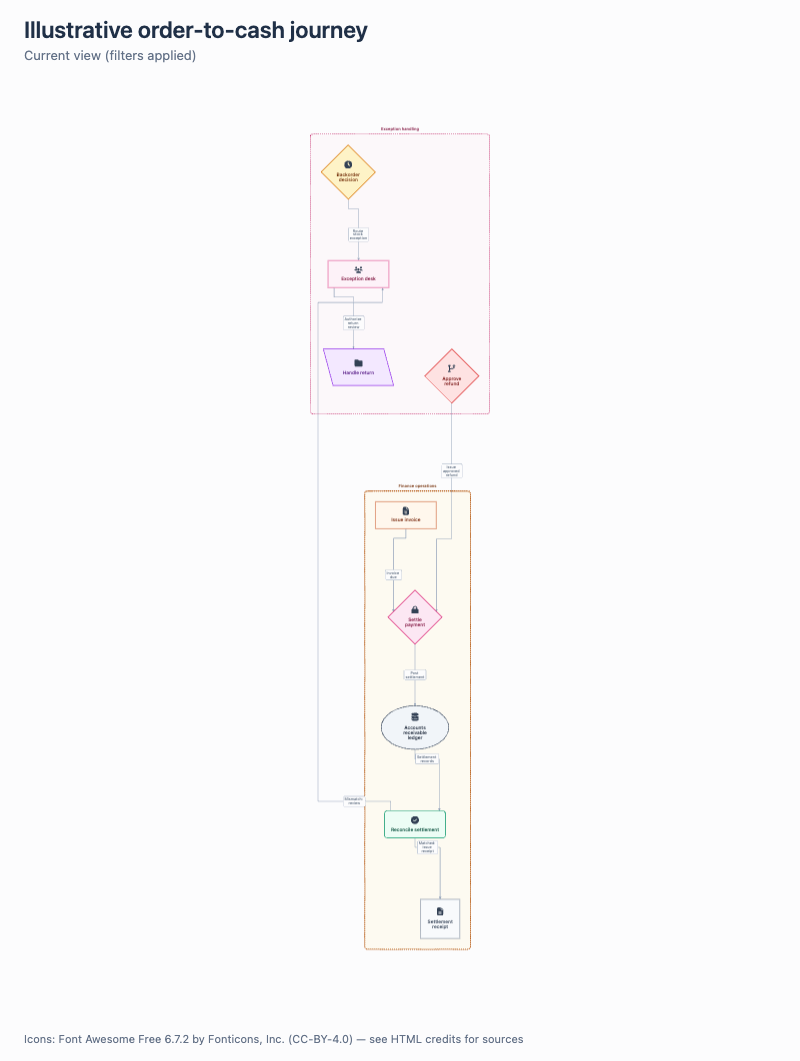
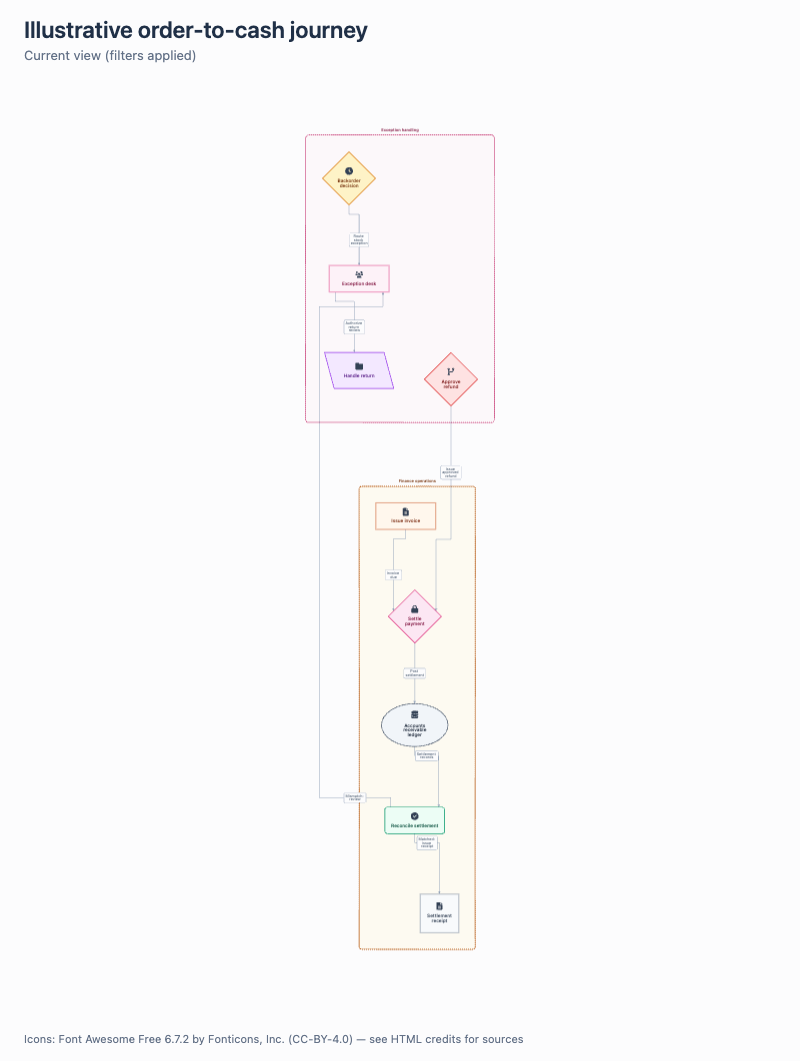
Keep routes within group systems

diff --git a/assets/viewer.js b/assets/viewer.js
@@ -68,7 +68,7 @@ const nodes=model.nodes.map(n=>{
   if(appearance.shape==='parallelogram'){height=Math.max(108,contentHeight+16);width=height*parallelogramRatio;}
   const slant=appearance.shape==='parallelogram'?parallelogramSlant:0;
   const groupLabelWidth=Math.min(300,measure.measureText(n.label).width),iconTop=n.icon?Math.max(10,(height-labelHeight-30)/2):0;
-  return {data:{id:n.id,label:n.label,displayLabel,kind:n.kind||'element',...(n.parent?{parent:n.parent}:{}),width,height,labelWidth,labelHeight,shape,slant,icon:icons[n.icon]||null,iconTop,fill:appearance.fill||'#ffffff',stroke:appearance.stroke||colors.get(n.kind||'element')||'#7c8899',strokeWidth:appearance.strokeWidth||1.7,textColor:appearance.textColor||'#203047',groupLabel:appearance.groupLabel||'top',groupPadding:appearance.groupLabel==='inside'?46:30,groupTextX:appearance.groupLabel==='inside'?(n.icon?42:14)+groupLabelWidth:0}};
+  return {data:{id:n.id,label:n.label,displayLabel,kind:n.kind||'element',...(n.parent?{parent:n.parent}:{}),width,height,labelWidth,labelHeight,shape,slant,icon:icons[n.icon]||null,iconTop,fill:appearance.fill||'#ffffff',stroke:appearance.stroke||colors.get(n.kind||'element')||'#7c8899',strokeWidth:appearance.strokeWidth||1.7,textColor:appearance.textColor||'#203047',groupLabel:appearance.groupLabel||'top',groupPadding:appearance.groupLabel==='inside'?56:48,groupTextX:appearance.groupLabel==='inside'?(n.icon?42:14)+groupLabelWidth:0}};
 });
 const nodeSpacing=Math.max(90,model.layout?.spacing||0),layerSpacing=Math.max(180,model.layout?.layerSpacing||0);
 const edges=model.edges.map(e=>({data:{id:e.id,source:e.source,target:e.target,label:e.label||'',kind:e.kind||'flow',directed:e.directed!==false,curveStyle:'straight',segmentWeights:'0.5',segmentDistances:'0',routeLabelX:0,routeLabelY:0,sourceEndpoint:'outside-to-node',targetEndpoint:'outside-to-node'}}));
@@ -79,7 +79,7 @@ const cy=api.cy=cytoscape({
   style:[
     {selector:'node',style:{'shape':'data(shape)','width':'data(width)','height':'data(height)','background-color':'data(fill)','border-width':'data(strokeWidth)','border-color':'data(stroke)','label':'data(displayLabel)','font-family':'system-ui','font-size':14,'font-weight':600,'color':'data(textColor)','text-valign':'center','text-halign':'center','text-wrap':'wrap','text-max-width':'data(labelWidth)','text-justification':'center','text-margin-y':0,'padding':0,'overlay-opacity':0}},
     {selector:'node[icon]',style:{'background-image':n=>n.data('icon')||'none','background-fit':'none','background-width':24,'background-height':24,'background-position-x':'50%','background-position-y':'data(iconTop)','text-margin-y':15}},
-    {selector:'node:parent',style:{'shape':'round-rectangle','background-color':'data(fill)','background-opacity':0.22,'border-color':'data(stroke)','border-width':'data(strokeWidth)','border-style':'dashed','padding':'data(groupPadding)','label':'data(label)','font-size':12,'font-weight':600,'color':'data(textColor)','text-valign':'top','text-halign':'center','text-margin-x':0,'text-margin-y':-9,'compound-sizing-wrt-labels':'include','background-image':'none','text-wrap':'wrap','text-max-width':300}},
+    {selector:'node:parent',style:{'shape':'round-rectangle','background-color':'data(fill)','background-opacity':0.22,'border-color':'data(stroke)','border-width':'data(strokeWidth)','border-style':'dashed','padding':'data(groupPadding)','label':'data(label)','font-size':12,'font-weight':600,'color':'data(textColor)','text-valign':'top','text-halign':'center','text-margin-x':0,'text-margin-y':-9,'text-background-color':'#fcfcfd','text-background-opacity':1,'text-background-padding':3,'text-background-shape':'roundrectangle','compound-sizing-wrt-labels':'exclude','background-image':'none','text-wrap':'wrap','text-max-width':300}},
     {selector:'node:parent[groupLabel="inside"]',style:{'text-halign':'left','text-valign':'top','text-margin-x':'data(groupTextX)','text-margin-y':15}},
     {selector:'node:parent[groupLabel="inside"][icon]',style:{'background-image':n=>n.data('icon')||'none','background-fit':'none','background-width':20,'background-height':20,'background-position-x':'16px','background-position-y':'14px'}},
     {selector:'edge',style:{'curve-style':'data(curveStyle)','edge-distances':'node-position','segment-weights':'data(segmentWeights)','segment-distances':'data(segmentDistances)','source-endpoint':'data(sourceEndpoint)','target-endpoint':'data(targetEndpoint)','line-color':'#96a5bb','target-arrow-color':'#96a5bb','target-arrow-shape':e=>e.data('directed')?'triangle':'none','width':1.6,'arrow-scale':0.85,'label':'data(label)','font-family':'system-ui','font-size':11,'color':'#526277','text-background-color':'#fcfcfd','text-background-opacity':1,'text-background-padding':4,'text-background-shape':'roundrectangle','text-border-width':1,'text-border-color':'#96a5bb','text-border-opacity':1,'text-wrap':'wrap','text-max-width':56,'text-rotation':'none','text-margin-x':'data(routeLabelX)','text-margin-y':'data(routeLabelY)','overlay-opacity':0}},
@@ -190,14 +190,18 @@ async function route(elements,retryEdge=null){
   const obstacles=elements.nodes(':visible').filter(n=>!n.isParent()).map(n=>{const p=n.position(),pad=12;return{id:n.id(),x1:p.x-n.data('width')/2-pad,y1:p.y-n.data('height')/2-pad,x2:p.x+n.data('width')/2+pad,y2:p.y+n.data('height')/2+pad};}),groupClearance=22,groups=elements.nodes(':visible').filter(n=>n.isParent()).map(n=>{const b=n.boundingBox({includeLabels:false,includeOverlays:false});return{id:n.id(),x1:b.x1,y1:b.y1,x2:b.x2,y2:b.y2};}),xs=[...obstacles.flatMap(o=>[o.x1-18,o.x2+18]),...groups.flatMap(g=>[g.x1-groupClearance,g.x2+groupClearance])],ys=[...obstacles.flatMap(o=>[o.y1-18,o.y2+18]),...groups.flatMap(g=>[g.y1-groupClearance,g.y2+groupClearance])];
   const segments=path=>path.slice(1).map((p,i)=>[path[i],p]),intersects=(a,b,o)=>Math.abs(a.x-b.x)>=Math.abs(a.y-b.y)?a.y>o.y1&&a.y<o.y2&&Math.max(a.x,b.x)>o.x1&&Math.min(a.x,b.x)<o.x2:a.x>o.x1&&a.x<o.x2&&Math.max(a.y,b.y)>o.y1&&Math.min(a.y,b.y)<o.y2;
   const hugsGroup=(a,b,g)=>Math.abs(a.y-b.y)<.5?Math.max(a.x,b.x)>g.x1&&Math.min(a.x,b.x)<g.x2&&Math.min(Math.abs(a.y-g.y1),Math.abs(a.y-g.y2))<groupClearance:Math.max(a.y,b.y)>g.y1&&Math.min(a.y,b.y)<g.y2&&Math.min(Math.abs(a.x-g.x1),Math.abs(a.x-g.x2))<groupClearance;
-  const overlap=(a,b,c,d)=>{const ah=Math.abs(a.y-b.y)<.5,ch=Math.abs(c.y-d.y)<.5;if(ah!==ch)return 0;if(ah&&Math.abs(a.y-c.y)<1)return Math.max(0,Math.min(Math.max(a.x,b.x),Math.max(c.x,d.x))-Math.max(Math.min(a.x,b.x),Math.min(c.x,d.x)));if(!ah&&Math.abs(a.x-c.x)<1)return Math.max(0,Math.min(Math.max(a.y,b.y),Math.max(c.y,d.y))-Math.max(Math.min(a.y,b.y),Math.min(c.y,d.y)));return 0;};
+  const insideGroup=(path,g)=>path.every(p=>p.x>=g.x1+groupClearance&&p.x<=g.x2-groupClearance&&p.y>=g.y1+groupClearance&&p.y<=g.y2-groupClearance);
+  const facingSide=(g,p)=>{const dx=p.x-(g.x1+g.x2)/2,dy=p.y-(g.y1+g.y2)/2;return Math.abs(dx)>=Math.abs(dy)?(dx<0?'WEST':'EAST'):(dy<0?'NORTH':'SOUTH');};
+  const leavesOnce=(path,g,fromSource)=>{const points=fromSource?path:[...path].reverse(),inside=p=>p.x>=g.x1&&p.x<=g.x2&&p.y>=g.y1&&p.y<=g.y2,i=points.findIndex(p=>!inside(p));return i>0&&!points.slice(i).some(inside)&&!segments(points.slice(i)).some(([a,b])=>intersects(a,b,g));};
+  const leavesThrough=(path,g,fromSource,side)=>{const points=fromSource?path:[...path].reverse(),i=points.findIndex(p=>p.x<g.x1||p.x>g.x2||p.y<g.y1||p.y>g.y2);if(!leavesOnce(path,g,fromSource))return false;const a=points[i-1],b=points[i],horizontal=Math.abs(a.y-b.y)<.5;if(side==='WEST')return horizontal&&b.x<g.x1;if(side==='EAST')return horizontal&&b.x>g.x2;if(side==='NORTH')return!horizontal&&b.y<g.y1;return!horizontal&&b.y>g.y2;};
+  const parallelGap=(a,b,c,d)=>{const ah=Math.abs(a.y-b.y)<.5,ch=Math.abs(c.y-d.y)<.5;if(ah!==ch)return Infinity;const shared=ah?Math.min(Math.max(a.x,b.x),Math.max(c.x,d.x))-Math.max(Math.min(a.x,b.x),Math.min(c.x,d.x)):Math.min(Math.max(a.y,b.y),Math.max(c.y,d.y))-Math.max(Math.min(a.y,b.y),Math.min(c.y,d.y));return shared>3?Math.abs(ah?a.y-c.y:a.x-c.x):Infinity;};
   const crossing=(a,b,c,d)=>{const ah=Math.abs(a.y-b.y)<.5,ch=Math.abs(c.y-d.y)<.5;if(ah===ch)return false;const h=ah?[a,b]:[c,d],v=ah?[c,d]:[a,b];return v[0].x>Math.min(h[0].x,h[1].x)&&v[0].x<Math.max(h[0].x,h[1].x)&&h[0].y>Math.min(v[0].y,v[1].y)&&h[0].y<Math.max(v[0].y,v[1].y);};
   const compact=path=>{const out=[];for(const p of path){const n=out.length,vertical=n>1&&Math.abs(out[n-2].x-out[n-1].x)<.01&&Math.abs(out[n-1].x-p.x)<.01&&(out[n-1].y-out[n-2].y)*(p.y-out[n-1].y)>=0,horizontal=n>1&&Math.abs(out[n-2].y-out[n-1].y)<.01&&Math.abs(out[n-1].y-p.y)<.01&&(out[n-1].x-out[n-2].x)*(p.x-out[n-1].x)>=0;if(vertical||horizontal)out[n-1]=p;else if(!n||Math.abs(p.x-out[n-1].x)>.01||Math.abs(p.y-out[n-1].y)>.01)out.push(p);}return out;};
   const area=(a,b)=>Math.max(0,Math.min(a.x2,b.x2)-Math.max(a.x1,b.x1))*Math.max(0,Math.min(a.y2,b.y2)-Math.max(a.y1,b.y1)),labelBodies=elements.nodes(':visible').filter(n=>!n.isParent()).map(n=>n.boundingBox({includeLabels:false,includeOverlays:false}));
   const labelPositions=(path,z)=>{const out=[];for(const [a,b] of segments(path)){const horizontal=Math.abs(a.y-b.y)<.5,length=Math.abs(horizontal?a.x-b.x:a.y-b.y),extent=(horizontal?z.labelWidth:z.labelHeight)/2+4,fractions=new Set([.5,.35,.65,.2,.8]);for(let offset=extent;offset<=length-extent;offset+=12){fractions.add(offset/length);fractions.add(1-offset/length);}for(const t of fractions){if(length*Math.min(t,1-t)<extent)continue;const x=a.x+(b.x-a.x)*t,y=a.y+(b.y-a.y)*t;out.push({x,y,horizontal,length,t,box:{x1:x-z.labelWidth/2-4,y1:y-z.labelHeight/2-4,x2:x+z.labelWidth/2+4,y2:y+z.labelHeight/2+4}});}}return out;};
   for(const [lane,r] of records.sort((a,b)=>(a.edge.id()===retryEdge?-1:b.edge.id()===retryEdge?1:0)||(Math.abs(a.target.x-a.source.x)+Math.abs(a.target.y-a.source.y))-(Math.abs(b.target.x-b.source.x)+Math.abs(b.target.y-b.source.y))||a.edge.id().localeCompare(b.edge.id())).entries()){
-    const sourcePoint=portPoint(r.edge.source(),r.sourceSide,r.sourcePort),targetPoint=portPoint(r.edge.target(),r.targetSide,r.targetPort),start={x:r.source.x+sourcePoint.x-r.edge.source().data('width')/2,y:r.source.y+sourcePoint.y-r.edge.source().data('height')/2},end={x:r.target.x+targetPoint.x-r.edge.target().data('width')/2,y:r.target.y+targetPoint.y-r.edge.target().data('height')/2},sv=vector[r.sourceSide],tv=vector[r.targetSide],sourceStub=stubLength(r.edge.source(),r.sourceSide,sourcePoint,r.sourceStub),targetStub=stubLength(r.edge.target(),r.targetSide,targetPoint,r.targetStub),stub={x:start.x+sv[0]*sourceStub,y:start.y+sv[1]*sourceStub},finish={x:end.x+tv[0]*targetStub,y:end.y+tv[1]*targetStub},routeClearance=48,usedX=occupied.filter(([a,b])=>Math.abs(a.x-b.x)<.5).flatMap(([a])=>[a.x-routeClearance,a.x+routeClearance]),usedY=occupied.filter(([a,b])=>Math.abs(a.y-b.y)<.5).flatMap(([a])=>[a.y-routeClearance,a.y+routeClearance]),channelsX=[(stub.x+finish.x)/2,...xs,...usedX,Math.min(...xs)-24-lane*8,Math.max(...xs)+24+lane*8],channelsY=[(stub.y+finish.y)/2,...ys,...usedY,Math.min(...ys)-24-lane*8,Math.max(...ys)+24+lane*8],candidates=[[start,stub,{x:finish.x,y:stub.y},finish,end],[start,stub,{x:stub.x,y:finish.y},finish,end],...channelsX.map(x=>[start,stub,{x,y:stub.y},{x,y:finish.y},finish,end]),...channelsY.map(y=>[start,stub,{x:stub.x,y},{x:finish.x,y},finish,end])].map(compact),skip=new Set([r.edge.source().id(),r.edge.target().id()]);
-    const select=paths=>paths.map(path=>{const parts=segments(path);let score=parts.reduce((sum,[a,b])=>sum+Math.abs(a.x-b.x)+Math.abs(a.y-b.y),0)+(path.length-2)*28,blocked=Boolean(r.edge.data('label'))&&!labelPositions(path,r.edge._private.rstyle).some(p=>!labelBodies.some(b=>area(p.box,b)));for(const [a,b] of parts){blocked ||= obstacles.some(o=>skip.has(o.id)?crossesNode(a,b,cy.getElementById(o.id)):intersects(a,b,o))||groups.some(g=>hugsGroup(a,b,g));for(const [c,d] of occupied){blocked ||= overlap(a,b,c,d)>3;score+=crossing(a,b,c,d)?180:0;}}return{path,score,blocked};}).filter(choice=>!choice.blocked).sort((a,b)=>a.score-b.score||JSON.stringify(a.path).localeCompare(JSON.stringify(b.path)))[0];
+    const sourcePoint=portPoint(r.edge.source(),r.sourceSide,r.sourcePort),targetPoint=portPoint(r.edge.target(),r.targetSide,r.targetPort),start={x:r.source.x+sourcePoint.x-r.edge.source().data('width')/2,y:r.source.y+sourcePoint.y-r.edge.source().data('height')/2},end={x:r.target.x+targetPoint.x-r.edge.target().data('width')/2,y:r.target.y+targetPoint.y-r.edge.target().data('height')/2},sv=vector[r.sourceSide],tv=vector[r.targetSide],sourceStub=stubLength(r.edge.source(),r.sourceSide,sourcePoint,r.sourceStub),targetStub=stubLength(r.edge.target(),r.targetSide,targetPoint,r.targetStub),stub={x:start.x+sv[0]*sourceStub,y:start.y+sv[1]*sourceStub},finish={x:end.x+tv[0]*targetStub,y:end.y+tv[1]*targetStub},routeClearance=48,usedX=occupied.filter(([a,b])=>Math.abs(a.x-b.x)<.5).flatMap(([a])=>[a.x-routeClearance,a.x+routeClearance]),usedY=occupied.filter(([a,b])=>Math.abs(a.y-b.y)<.5).flatMap(([a])=>[a.y-routeClearance,a.y+routeClearance]),channelsX=[(stub.x+finish.x)/2,...xs,...usedX,Math.min(...xs)-24-lane*8,Math.max(...xs)+24+lane*8],channelsY=[(stub.y+finish.y)/2,...ys,...usedY,Math.min(...ys)-24-lane*8,Math.max(...ys)+24+lane*8],candidates=[[start,stub,{x:finish.x,y:stub.y},finish,end],[start,stub,{x:stub.x,y:finish.y},finish,end],...channelsX.map(x=>[start,stub,{x,y:stub.y},{x,y:finish.y},finish,end]),...channelsY.map(y=>[start,stub,{x:stub.x,y},{x:finish.x,y},finish,end])].map(compact),skip=new Set([r.edge.source().id(),r.edge.target().id()]),sourceGroups=new Set(r.edge.source().ancestors().map(n=>n.id())),targetGroups=new Set(r.edge.target().ancestors().map(n=>n.id()));
+    const select=paths=>paths.map(path=>{const parts=segments(path);let score=parts.reduce((sum,[a,b])=>sum+Math.abs(a.x-b.x)+Math.abs(a.y-b.y),0)+(path.length-2)*28,blocked=Boolean(r.edge.data('label'))&&!labelPositions(path,r.edge._private.rstyle).some(p=>!labelBodies.some(b=>area(p.box,b)));for(const g of groups){const sourceInside=sourceGroups.has(g.id),targetInside=targetGroups.has(g.id);if(sourceInside&&targetInside)blocked ||= !insideGroup(path,g);else if(sourceInside||targetInside){blocked ||= !leavesOnce(path,g,sourceInside)||parts.some(([a,b])=>hugsGroup(a,b,g));score+=leavesThrough(path,g,sourceInside,facingSide(g,sourceInside?r.target:r.source))?0:100000;}else blocked ||= parts.some(([a,b])=>intersects(a,b,g)||hugsGroup(a,b,g));}for(const [a,b] of parts){blocked ||= obstacles.some(o=>skip.has(o.id)?crossesNode(a,b,cy.getElementById(o.id)):intersects(a,b,o));for(const [c,d] of occupied){blocked ||= parallelGap(a,b,c,d)<14;score+=crossing(a,b,c,d)?180:0;}}return{path,score,blocked};}).filter(choice=>!choice.blocked).sort((a,b)=>a.score-b.score||JSON.stringify(a.path).localeCompare(JSON.stringify(b.path)))[0];
     let scored=select(candidates);
     if(!scored){const detours=[];for(const x of [...new Set(channelsX)])for(const y of [...new Set(channelsY)])detours.push(compact([start,stub,{x,y:stub.y},{x,y},{x:finish.x,y},finish,end]),compact([start,stub,{x:stub.x,y},{x,y},{x,y:finish.y},finish,end]));scored=select(detours);}
     if(!scored){if(!retryEdge)return route(elements,r.edge.id());throw new Error(`No collision-free orthogonal route for ${r.edge.id()}.`);}const path=scored.path,bends=path.slice(1,-1),values=segmentValues(bends,r.source,r.target);occupied.push(...segments(path));r.edge.scratch('routePath',path);r.edge.data({curveStyle:bends.length?'segments':'straight',segmentWeights:values.weights,segmentDistances:values.distances,sourceEndpoint:`${start.x-r.source.x}px ${start.y-r.source.y}px`,targetEndpoint:`${end.x-r.target.x}px ${end.y-r.target.y}px`,routeLabelX:0,routeLabelY:0});

diff --git a/scripts/browser_check.py b/scripts/browser_check.py
@@ -77,10 +77,12 @@ AUDIT = r'''() => {
  const rhomboidProbe={position:()=>({x:0,y:0}),width:()=>220,height:()=>140,data:key=>key==='shape'?'rhomboid':key==='slant'?2*140*Math.tan(Math.PI/12)/220:undefined};
  if(!crossesNode({x:100,y:0},{x:100,y:63},rhomboidProbe))errors.push('Rhomboid segment collision regression.');
  for(const route of routes)if(route.source!==route.target)for(const [a,b] of route.path.slice(1).map((p,i)=>[route.path[i],p]))for(const n of cy.nodes(':visible').filter(n=>!n.isParent()))if(crossesNode(a,b,n))errors.push('Routed edge crosses node interior: '+route.id+' / '+n.id());
- const routeSegments=r=>r.path.slice(1).map((p,i)=>[r.path[i],p]),collinearOverlap=(a,b,c,d)=>{const ah=Math.abs(a.y-b.y)<1,ch=Math.abs(c.y-d.y)<1;if(ah!==ch)return 0;if(ah&&Math.abs(a.y-c.y)<1)return Math.max(0,Math.min(Math.max(a.x,b.x),Math.max(c.x,d.x))-Math.max(Math.min(a.x,b.x),Math.min(c.x,d.x)));if(!ah&&Math.abs(a.x-c.x)<1)return Math.max(0,Math.min(Math.max(a.y,b.y),Math.max(c.y,d.y))-Math.max(Math.min(a.y,b.y),Math.min(c.y,d.y)));return 0;};
+ const routeSegments=r=>r.path.slice(1).map((p,i)=>[r.path[i],p]),parallelGap=(a,b,c,d)=>{const ah=Math.abs(a.y-b.y)<1,ch=Math.abs(c.y-d.y)<1;if(ah!==ch)return Infinity;const shared=ah?Math.min(Math.max(a.x,b.x),Math.max(c.x,d.x))-Math.max(Math.min(a.x,b.x),Math.min(c.x,d.x)):Math.min(Math.max(a.y,b.y),Math.max(c.y,d.y))-Math.max(Math.min(a.y,b.y),Math.min(c.y,d.y));return shared>3?Math.abs(ah?a.y-c.y:a.x-c.x):Infinity;};
  const groupBodies=cy.nodes(':visible').filter(n=>n.isParent()).map(n=>({id:n.id(),...n.boundingBox({includeLabels:false,includeOverlays:false})}));
- for(const route of routes)for(const [a,b] of routeSegments(route))for(const g of groupBodies){const horizontal=Math.abs(a.y-b.y)<1,overlap=horizontal?Math.min(Math.max(a.x,b.x),g.x2)-Math.max(Math.min(a.x,b.x),g.x1):Math.min(Math.max(a.y,b.y),g.y2)-Math.max(Math.min(a.y,b.y),g.y1),distance=horizontal?Math.min(Math.abs(a.y-g.y1),Math.abs(a.y-g.y2)):Math.min(Math.abs(a.x-g.x1),Math.abs(a.x-g.x2));if(overlap>3&&distance<18)errors.push('Route hugs group boundary: '+route.id+' / '+g.id);}
- for(let i=0;i<routes.length;i++)for(let j=i+1;j<routes.length;j++)if(routes[i].source!==routes[i].target&&routes[j].source!==routes[j].target)for(const [a,b] of routeSegments(routes[i]))for(const [c,d] of routeSegments(routes[j]))if(collinearOverlap(a,b,c,d)>3)errors.push('Overlapping route channel: '+routes[i].id+' / '+routes[j].id);
+ const groupAncestors=n=>new Set(n.ancestors().map(g=>g.id())),segmentEnters=(a,b,g)=>Math.abs(a.y-b.y)<1?a.y>g.y1&&a.y<g.y2&&Math.max(a.x,b.x)>g.x1&&Math.min(a.x,b.x)<g.x2:a.x>g.x1&&a.x<g.x2&&Math.max(a.y,b.y)>g.y1&&Math.min(a.y,b.y)<g.y2,leavesOnce=(path,g,fromSource)=>{const points=fromSource?path:[...path].reverse(),inside=p=>p.x>=g.x1&&p.x<=g.x2&&p.y>=g.y1&&p.y<=g.y2,i=points.findIndex(p=>!inside(p));return i>0&&!points.slice(i).some(inside)&&!routeSegments({path:points.slice(i)}).some(([a,b])=>segmentEnters(a,b,g));};
+ for(const route of routes.filter(r=>r.source!==r.target)){const sourceNode=cy.getElementById(route.source),targetNode=cy.getElementById(route.target),sourceGroups=groupAncestors(sourceNode),targetGroups=groupAncestors(targetNode);for(const g of groupBodies){const sourceInside=sourceGroups.has(g.id),targetInside=targetGroups.has(g.id);if(sourceInside&&targetInside&&route.path.some(p=>p.x<g.x1+18||p.x>g.x2-18||p.y<g.y1+18||p.y>g.y2-18))errors.push('Internal route leaves group padding: '+route.id+' / '+g.id);if(sourceInside!==targetInside&&!leavesOnce(route.path,g,sourceInside))errors.push('Cross-boundary route leaves or enters its group more than once: '+route.id+' / '+g.id);if(!sourceInside&&!targetInside&&routeSegments(route).some(([a,b])=>segmentEnters(a,b,g)))errors.push('Unrelated route enters group: '+route.id+' / '+g.id);for(const [a,b] of routeSegments(route)){const horizontal=Math.abs(a.y-b.y)<1,overlap=horizontal?Math.min(Math.max(a.x,b.x),g.x2)-Math.max(Math.min(a.x,b.x),g.x1):Math.min(Math.max(a.y,b.y),g.y2)-Math.max(Math.min(a.y,b.y),g.y1),distance=horizontal?Math.min(Math.abs(a.y-g.y1),Math.abs(a.y-g.y2)):Math.min(Math.abs(a.x-g.x1),Math.abs(a.x-g.x2));if(!(sourceInside&&targetInside)&&overlap>3&&distance<18)errors.push('Route hugs group boundary: '+route.id+' / '+g.id);}}}
+ for(const g of cy.nodes(':visible').filter(n=>n.isParent())){const children=g.children(':visible');if(!children.length)continue;const body=g.boundingBox({includeLabels:false,includeOverlays:false}),content=children.boundingBox({includeLabels:false,includeOverlays:false}),left=content.x1-body.x1,right=body.x2-content.x2,top=content.y1-body.y1,bottom=body.y2-content.y2;if(Math.min(left,right,top,bottom)<28)errors.push('Group content padding is too small: '+g.id());if(Math.abs(left-right)>1||Math.abs(top-bottom)>1)errors.push('Group content is not centered: '+g.id());}
+ for(let i=0;i<routes.length;i++)for(let j=i+1;j<routes.length;j++)if(routes[i].source!==routes[i].target&&routes[j].source!==routes[j].target)for(const [a,b] of routeSegments(routes[i]))for(const [c,d] of routeSegments(routes[j]))if(parallelGap(a,b,c,d)<14)errors.push('Parallel routes lack separation: '+routes[i].id+' / '+routes[j].id);
  for(let i=0;i<routes.length;i++)for(let j=i+1;j<routes.length;j++){
    const a=routes[i],b=routes[j],same=a.source===b.source&&a.target===b.target,reverse=a.source===b.target&&a.target===b.source;
    if((same||reverse)&&a.points.length&&JSON.stringify(a.points)===JSON.stringify(reverse?[...b.points].reverse():b.points))errors.push('Coincident parallel route: '+a.id+' / '+b.id);
@@ -104,6 +106,7 @@ AUDIT = r'''() => {
  for(const n of iconStyles){const expected=n.parent?20:24;if(n.fit!=='none'||Math.abs(n.width-expected)>0.1||Math.abs(n.height-expected)>0.1)errors.push('Icon scaling regression: '+n.id);}
  for(const n of cy.nodes(':visible').filter(n=>!n.isParent()&&n.data('icon'))){const contentCenter=n.data('iconTop')+(24+6+n.data('labelHeight'))/2;if(Math.abs(contentCenter-n.data('height')/2)>1)errors.push('Icon and label are not jointly centered: '+n.id());}
  for(const n of cy.nodes(':visible').filter(n=>n.isParent()&&n.data('groupLabel')==='top')){n.boundingBox({includeLabels:true,includeOverlays:false});const label=n._private.labelBounds.main;if(Math.abs((label.x1+label.x2)/2-n.position('x'))>2)errors.push('Top group title is not centered: '+n.id());}
+ if(cy.nodes(':visible').filter(n=>n.isParent()).some(n=>n.pstyle('text-background-opacity').value<.99))errors.push('Group titles need an opaque route interruption.');
  return {state:a.state,viewerErrors:a.errors,cytoscapeVersion:cytoscape.version,nodes:nodes.length,leaves:leaves.length,edges:cy.edges().length,visibleEdges:cy.edges(':visible').length,zoom:cy.zoom(),labelPixels,centerOffset,routes,nodeLabels,edgeLabels,groupLabels,errors,warnings,geometry:nodes,iconStyles};
 }'''
 
